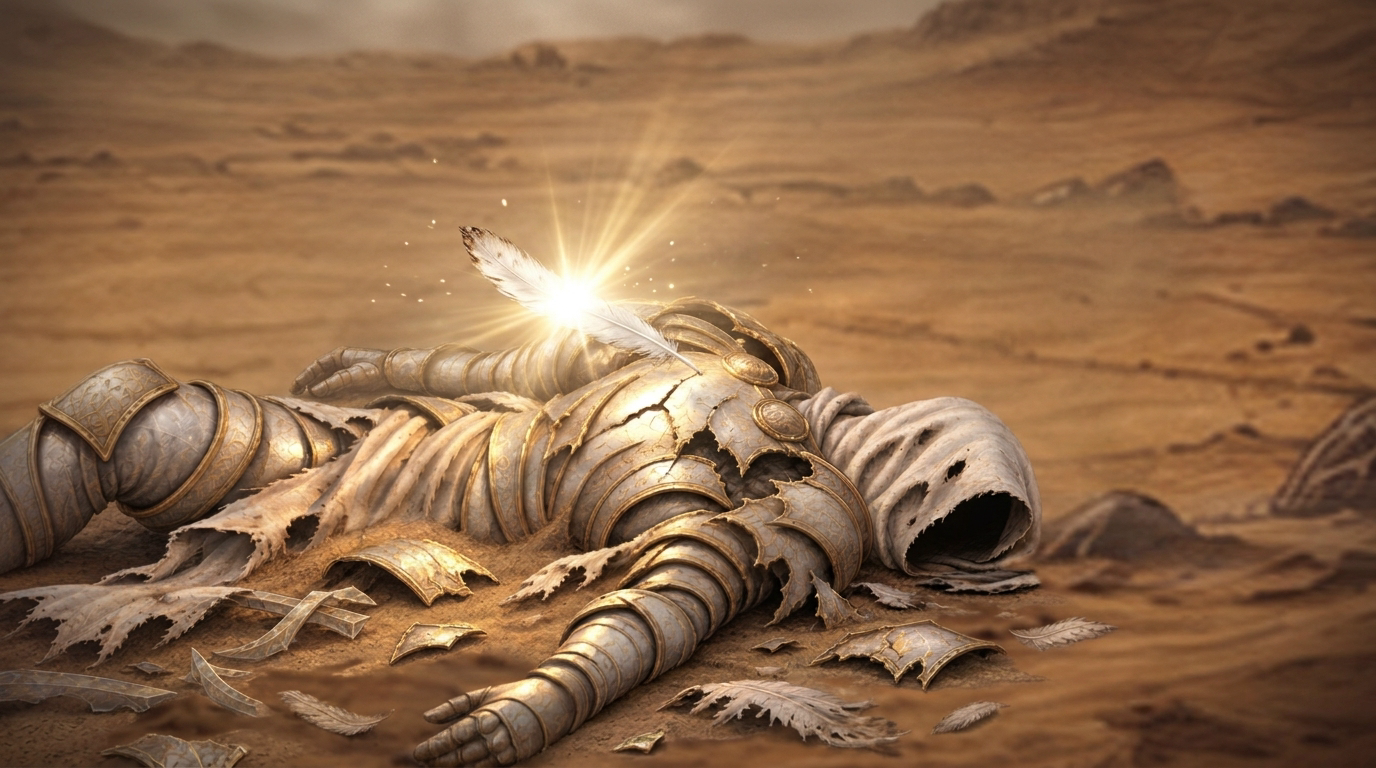
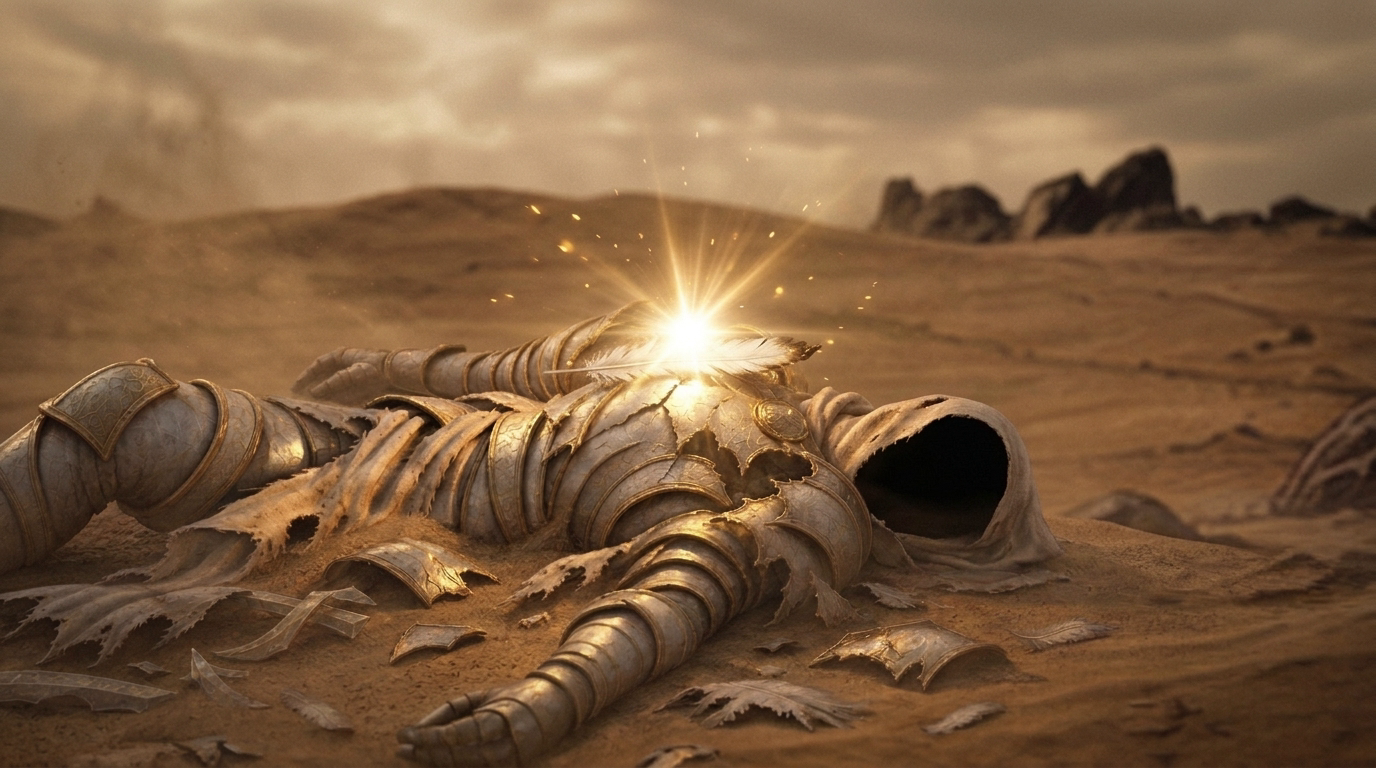
[Antigravity] fix: 修正第二段重複光柱與重影並重製平放胸口正中央羽毛參考圖

diff --git a/opening_animation/CINEMATIC_PART2_STORYBOARD.md b/opening_animation/CINEMATIC_PART2_STORYBOARD.md
@@ -98,14 +98,15 @@ Create an ultra-realistic AAA dark fantasy 3D CGI cinematic 16:9 video in a sing
 ```text
 Create an ultra-realistic AAA dark fantasy 3D CGI cinematic 16:9 video in a single continuous unbroken medium close-up shot (no scene cuts, no text, no subtitles, no black letterbox bars). Start IMMEDIATELY at the exact medium close-up framing of orig_08_63s00.png (first image)—showing only the fallen archangel's cracked chestplate, upper legs, arms, and shadowed hood—and transform it completely into the photorealistic 3D CGI film quality, intricate gold-filigree metal reflections, glowing volumetric rays, and cinematic bloom of ref_feather_glow.png (second reference image).
 
-STRICT ANATOMY & MOTIONLESS BODY LOCK (CRITICAL):
+STRICT ANATOMY, POSE & FEATHER LANDING LOCK (CRITICAL):
 - The fallen archangel has STRICTLY TWO legs only (never generate a third leg or extra limbs; scattered armor shards in the sand must remain small flat metal fragments, never morphing into boots or legs).
 - The archangel's entire body—including the hooded head, shoulders, arms, and both legs—must remain 100% COMPLETELY MOTIONLESS, HEAVY, AND FLAT on the desert sand throughout the entire video. DO NOT lift, turn, or raise the hooded head. DO NOT move, bend, or float any leg in the wind.
+- FEATHER POSITION & ORIENTATION: The single white charred-edge angel feather must drift down horizontally and land GENTLY LYING COMPLETELY FLAT across the DEAD CENTER of the cracked chestplate (resting flat horizontally against the chest armor surface like a weightless feather—NEVER stabbing, piercing, or sticking upward at an angle like an arrow or dart). Both the flat feather and the radiant star flare must sit dead center on the chestplate.
 - Only tiny tattered cloth fringes, drifting desert dust, and the falling feather may move in the breeze.
 
-[0-3s] Medium close-up of the completely motionless fallen hooded archangel lying flat on the windswept desert sand, face hidden in pitch-black shadow inside the torn ivory hood resting flat on the ground. A single detailed white angel feather with charred edges drifts gently down from the top of the frame, a tiny pure-white star spark glowing at the center of its shaft as it softly touches down onto the cracked ivory-and-gold chestplate.
-[3-6.5s] Upon touching the armor, the white star flare ignites into dazzling golden-white volumetric light rays, shimmering energy particles, and warm divine shockwaves radiating outward from the feather across the motionless metallic filigree, lifting fine sand grains into the air as the camera slowly and smoothly pushes closer toward the chestplate.
-[6.5-10s] The radiant golden-white light intensifies and expands rapidly from the chestplate like a rising sun, blooming brighter and brighter until warm luminous golden-white light completely fills the entire frame. Epic AAA cinematic lighting and lens bloom.
+[0-3s] Medium close-up of the completely motionless fallen hooded archangel lying flat on the windswept desert sand, face hidden in pitch-black shadow inside the torn ivory hood resting flat on the ground. A single detailed white angel feather with charred edges floats horizontally down from above, swaying gently in the air until it settles COMPLETELY FLAT AND HORIZONTAL right onto the dead center of the cracked ivory-and-gold chestplate, a pure-white star spark igniting at the center of the flat feather.
+[3-6.5s] Right from the dead center of the chestplate where the feather lies flat, the white star flare erupts into dazzling golden-white volumetric light rays, shimmering energy particles, and warm divine shockwaves radiating evenly across the motionless metallic filigree, lifting fine sand grains into the air as the camera slowly and smoothly pushes closer toward the chestplate.
+[6.5-10s] The radiant golden-white light intensifies and expands rapidly from the center of the chestplate like a rising sun, blooming brighter and brighter until warm luminous golden-white light completely fills the entire frame. Epic AAA cinematic lighting and lens bloom.
 ```
 
 ---
